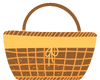
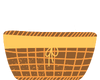
some art changes

Changed region(s): [[0.21, 0.025, 0.84, 0.4]]

diff --git a/main.js b/main.js
@@ -58,7 +58,7 @@ class GameScene extends Phaser.Scene {
     this.player.body.allowGravity = false;
     this.player.setCollideWorldBounds(true);
     this.player.setSize(this.player.width-this.player.width/4, this.player.height/6).
-      setOffset(this.player.width/10, this.player.height - this.player.height/10);
+      setOffset(this.player.width/10, this.player.height - this.player.height/3);
 
     this.target = this.physics.add
       .image(0,0,"apple")
@@ -155,7 +155,7 @@ const config = {
     default: "arcade",
     arcade: {
       gravity: { y: speedDown },
-      debug: true,
+      debug: false,
     },
   },
   scene: [GameScene],
